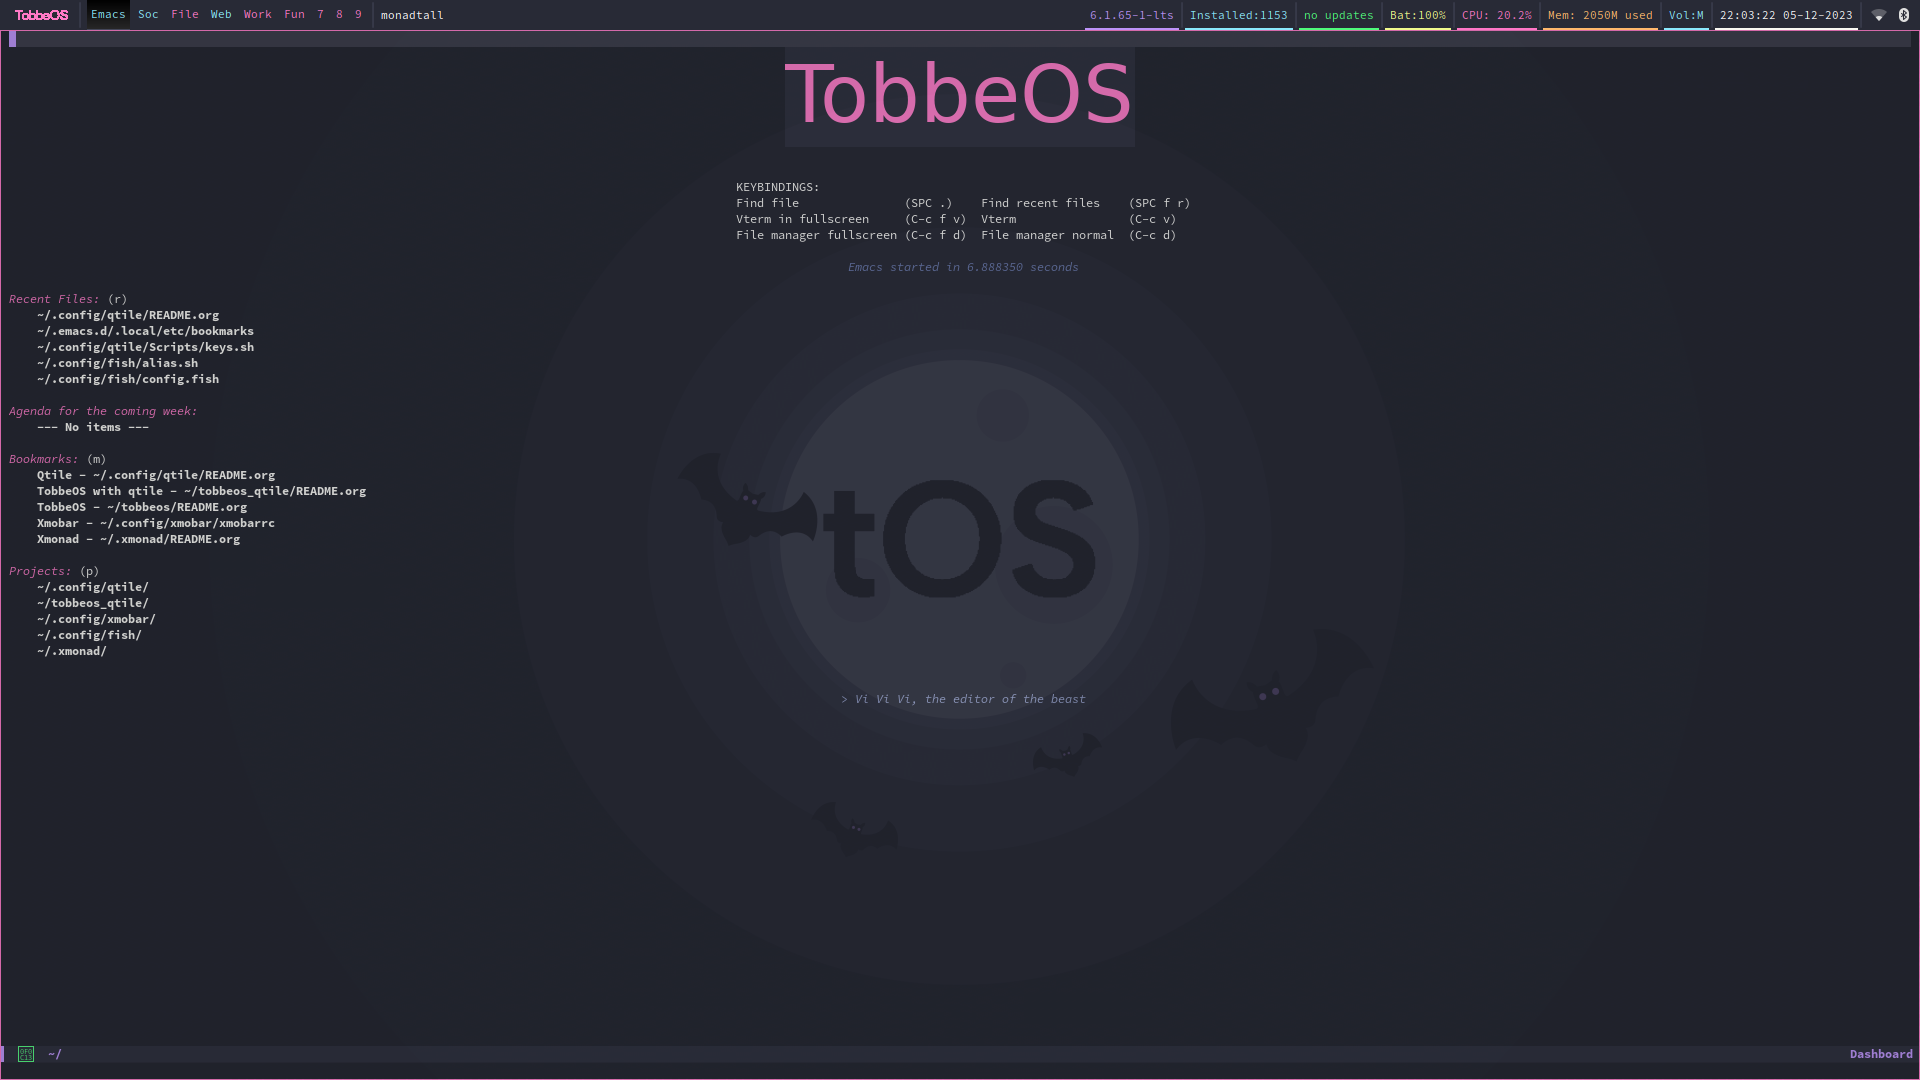
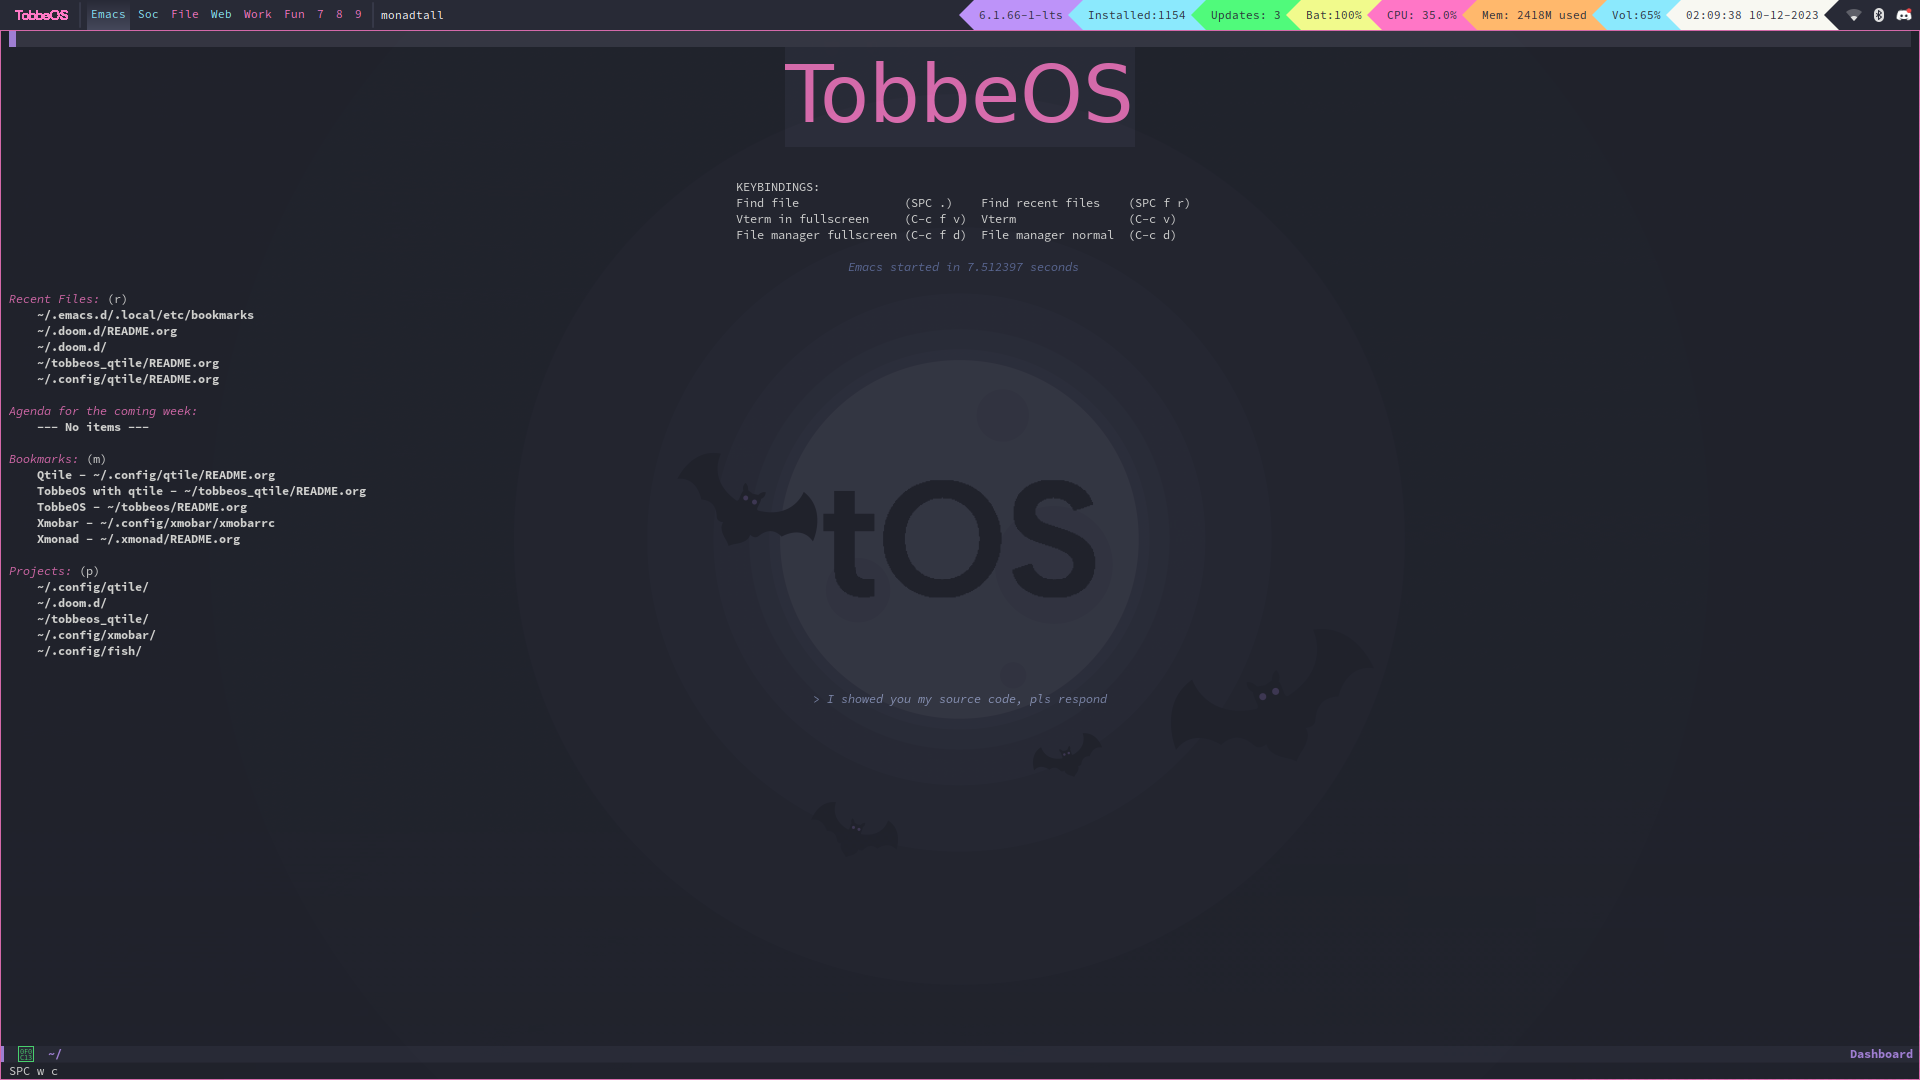
powerline effect and update screenshot

diff --git a/config.py b/config.py
@@ -8,6 +8,7 @@ import socket
 import subprocess
 from libqtile import qtile, widget, extension, bar, layout, hook
 import qtile_extras
+from qtile_extras.widget.decorations import PowerLineDecoration
 from qtile_extras import widget
 from qtile_extras.widget.decorations import BorderDecoration
 from libqtile.config import Click, Drag, Group, Key, Match, Screen, ScratchPad, DropDown, Rule
@@ -236,6 +237,12 @@ def xmenu():
     home = os.path.expanduser('~')
     qtile.cmd_spawn(home + '/xmenu/xmenu.sh', shell=True)
 
+powerline = {
+    "decorations": [
+        PowerLineDecoration(path="arrow_right")
+    ]
+}
+
 main_bar = bar.Bar(
     [
         widget.Sep(
@@ -272,149 +279,72 @@ main_bar = bar.Bar(
        widget.CurrentLayout(
             font='Source Code Pro'),
        widget.Spacer(lenght = 8),
+       widget.TextBox(**powerline),
        widget.GenPollCommand(
             cmd = 'uname -r',
             shell = True,
-            foreground = '#bd93f9',
+            background = "#bd93f9",
+            foreground = "#282a36",
             font='Source Code Pro',
             update_interval = 5,
-            decorations = [
-                BorderDecoration(
-                    colour = '#bd93f9',
-                    border_width = [0, 0, 2, 0],
-                )
-            ],
-       ),
-       widget.Sep(
-            background = "#282a36",
-            foreground = "#44475a",
-            linewidth = 1,
-            size_percent = 85),
+            **powerline),
        widget.GenPollCommand(
             fmt = 'Installed:{}',
             cmd = '~/.config/qtile/Scripts/Packagecount.sh',
             shell = True,
-            foreground = '#8be9fd',
             font='Source Code Pro',
             update_interval = 5,
             mouse_callbacks = {'Button1': package},
-            decorations = [
-                BorderDecoration(
-                    colour = '#8be9fd',
-                    border_width = [0, 0, 2, 0],
-                )
-            ],
-       ),
-       widget.Sep(
-            background = "#282a36",
-            foreground = "#44475a",
-            linewidth = 1,
-            size_percent = 85),
+            background = '#8be9fd',
+            foreground = '#282a36',
+            **powerline),
        widget.CheckUpdates(
             custom_command = 'checkupdates',
             distro = 'Arch',
-            colour_have_updates = 'ff5555',
-            colour_no_updates = '50fa7b',
+            background = "#50fa7b",
+            colour_have_updates = '#282a36',
+            colour_no_updates = '282a36',
             no_update_string = 'no updates',
             font='Source Code Pro',
             update_interval = 5,
             mouse_callbacks = {'Button1': updates},
-            decorations = [
-                BorderDecoration(
-                    colour = '#50fa7b',
-                    border_width = [0, 0, 2, 0],
-                )
-            ],
-       ),
-       widget.Sep(
-            background = "#282a36",
-            foreground = "#44475a",
-            linewidth = 1,
-            size_percent = 85),
+            **powerline),
        widget.Battery(
-            foreground = '#f1fa8c',
             format = '{percent:2.0%}',
             fmt = 'Bat:{}',
             show_short_text = False,
             update_interval = 5,
-            decorations = [
-                BorderDecoration(
-                    colour = '#f1fa8c',
-                    border_width = [0, 0, 2, 0],
-                )
-            ],
-            ),
-       widget.Sep(
-            background = "#282a36",
-            foreground = "#44475a",
-            linewidth = 1,
-            size_percent = 85),
+            background = '#f1fa8c',
+            foreground = '#282a36',
+            **powerline),
        widget.CPU(
             format = 'CPU: {load_percent}%',
-            foreground = "#ff76c6",
+            foreground = "#282a36",
+            background = "#ff76c6",
             font='Source Code Pro',
             mouse_callbacks = {'Button1': show_cpu},
-            decorations = [
-                BorderDecoration(
-                    colour = '#ff76c6',
-                    border_width = [0, 0, 2, 0],
-                )
-            ],
-        ),
-       widget.Sep(
-            background = "#282a36",
-            foreground = "#44475a",
-            linewidth = 1,
-            size_percent = 85),
+            **powerline),
        widget.Memory(
             format = '{MemUsed: .0f}{mm}',
             fmt = 'Mem:{} used',
-            foreground = '#ffb86c',
+            foreground = '#282a36',
+            background = "#ffb86c",
             font='Source Code Pro',
             mouse_callbacks = {'Button1': show_cpu},
-            decorations = [
-                BorderDecoration(
-                    colour = '#ffb86c',
-                    border_width = [0, 0, 2, 0],
-                )
-            ],
-        ),
-       widget.Sep(
-            background = "#282a36",
-            foreground = "#44475a",
-            linewidth = 1,
-            size_percent = 85),
+            **powerline),
        widget.Volume(
             fmt = 'Vol:{}',
-            foreground = "#8be9fd",
+            foreground = "#282a36",
+            background = "#8be9fd",
             font='Source Code Pro',
             mouse_callbacks = {'Button1': Pavucontrol},
-            decorations = [
-                BorderDecoration(
-                    colour = '#8be9fd',
-                    border_width = [0, 0, 2, 0],
-                )
-            ],
-        ),
-       widget.Sep(
-            background = "#282a36",
-            foreground = "#44475a",
-            linewidth = 1,
-            size_percent = 85),
-       widget.Clock(format="%H:%M:%S %d-%m-%Y", font='Source Code Pro',
-            decorations = [
-                BorderDecoration(
-                    colour = '#f8f8f2',
-                    border_width = [0, 0, 2, 0],
-                )
-            ],
-
-        ),
-       widget.Sep(
-            background = "#282a36",
-            foreground = "#44475a",
-            linewidth = 1,
-            size_percent = 85),
+            **powerline),
+       widget.Clock(
+           format="%H:%M:%S %d-%m-%Y",
+           font='Source Code Pro',
+           **powerline,
+           background = "#f8f8f2",
+           foreground = "#282a36"),
        widget.Systray(),
        widget.Sep(
             foreground = "#282a36"),
